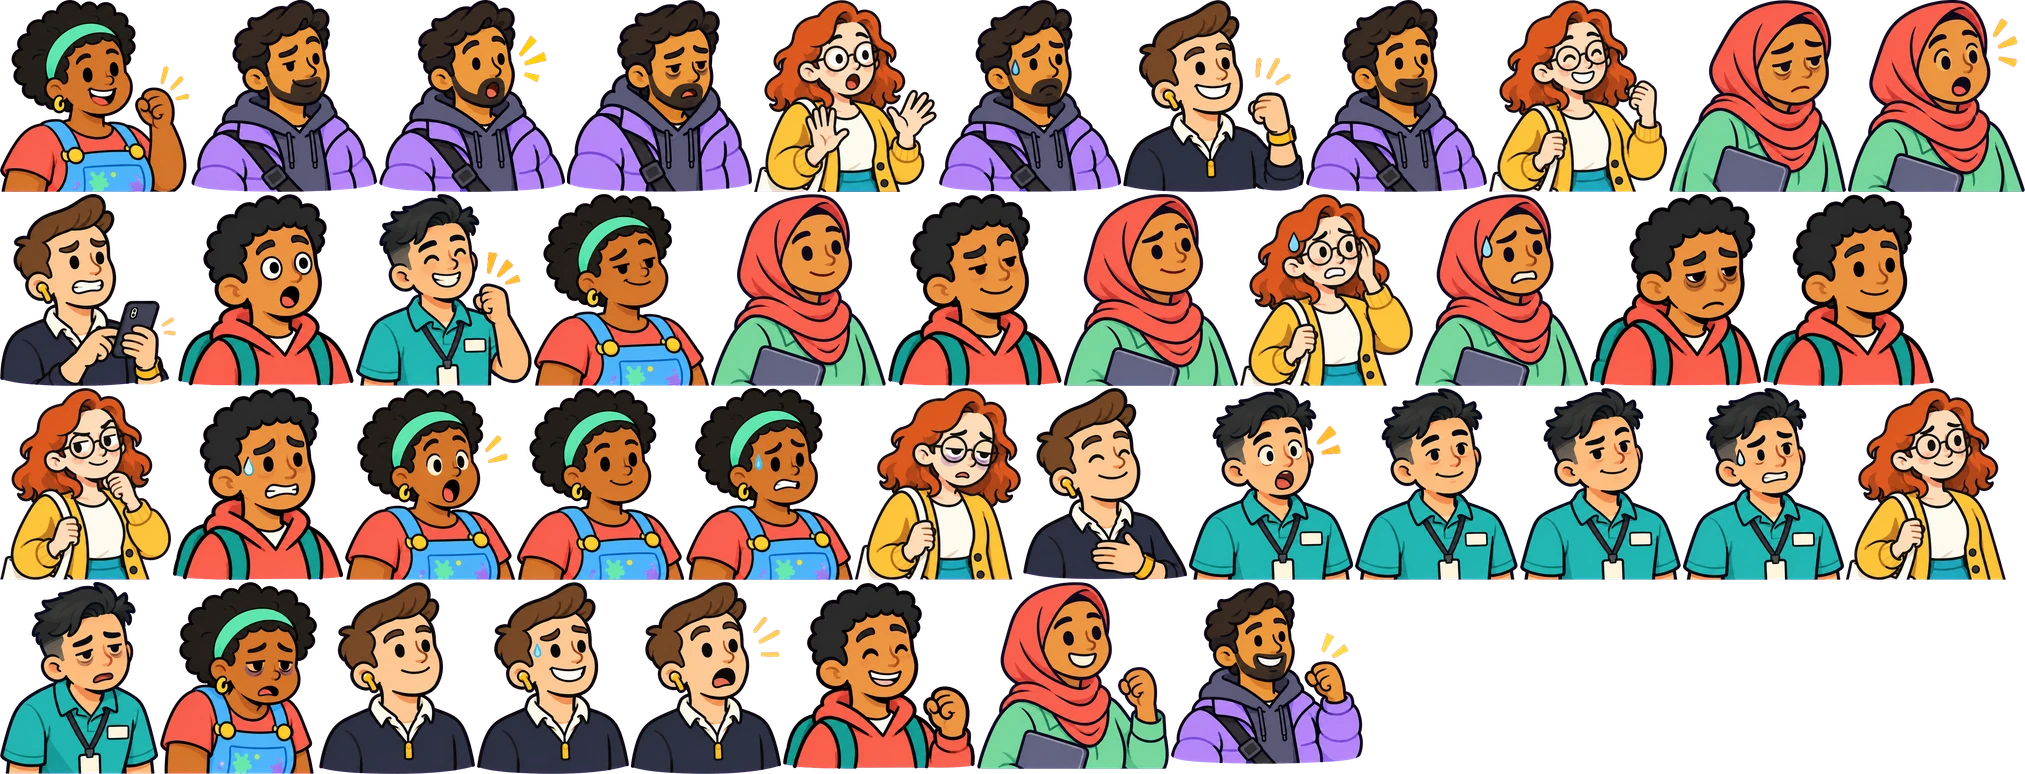
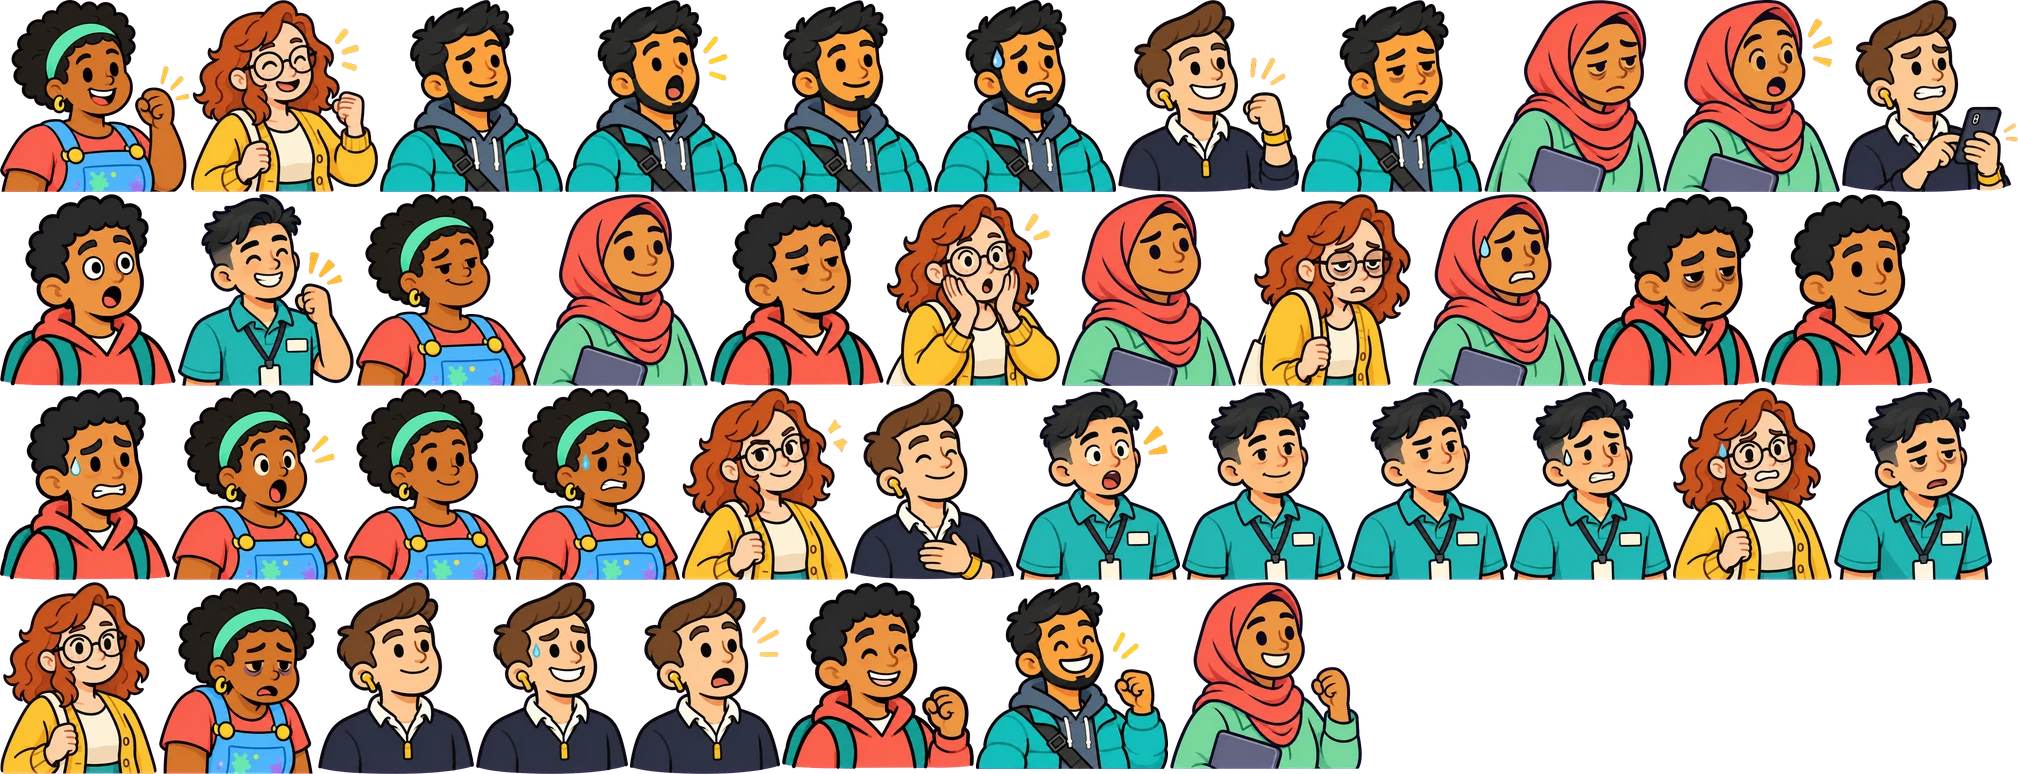
art: redo player-02 and player-05 to the art-direction rules (#8)
player-05 drops the lilac puffer and sneakers (lilac is reserved for
robots and AI) for teal and white. player-02's tote bag and tights are
now flat with a single hard-edged shadow, no soft shading. Both emotion
sheets regenerated from the new full bodies; atlases rebuilt.

Also: gen_one.sh resolves art/src relative to itself so it works from any
worktree, and make_prompts.py writes LF so a rerun on Windows only
touches prompts whose text changed.

diff --git a/art/tools/make_prompts.py b/art/tools/make_prompts.py
@@ -35,10 +35,10 @@ assets: dict[str, dict[str, tuple[str, str]]] = {"characters": {}, "locations": 
 
 PLAYERS = {
     "player-01": "a young adult around 24, medium-brown skin, short curly black hair, wearing a coral hoodie, slate jeans, white sneakers and a teal backpack. Personality: hopeful, slightly tired",
-    "player-02": "a young woman around 26, light skin with freckles, shoulder-length wavy red hair, round glasses, wearing a mustard cardigan over a cream top, teal skirt, dark tights and ankle boots, tote bag. Personality: bookish, anxious overachiever",
+    "player-02": "a young woman around 26, light skin with freckles, shoulder-length wavy red hair, round glasses, wearing a mustard cardigan over a cream top, teal skirt, slate tights and ankle boots, cream tote bag. The tote bag and tights are flat colour with one hard-edged shadow tone each, no soft shading. Personality: bookish, anxious overachiever",
     "player-03": "a young man around 25, East Asian, black undercut hair, wearing a teal work polo with a blank name badge, slate chinos, black work shoes, lanyard. Personality: earnest, grinding through shifts",
     "player-04": "a young woman around 23, deep dark-brown skin, short natural afro with a mint headband, plus-size, wearing sky-blue denim overalls over a coral t-shirt, chunky sneakers, paint-splattered. Personality: creative, upbeat hustler",
-    "player-05": "a young man around 27, tan South Asian skin, neat beard, wearing a lilac puffer jacket over a slate hoodie, black joggers, sneakers, delivery bag strap across chest. Personality: easy-going gig worker",
+    "player-05": "a young man around 27, tan South Asian skin, neat beard, wearing a teal puffer jacket over a slate hoodie, black joggers, white sneakers, delivery bag strap across chest. No lilac anywhere on him (lilac is reserved for robots). Personality: easy-going gig worker",
     "player-06": "a young woman around 24, warm olive-brown skin, wearing a coral headscarf (hijab), a long mint shirt over slate trousers, white sneakers, laptop under one arm. Personality: focused, quietly ambitious",
 }
 for pid, desc in PLAYERS.items():
@@ -144,8 +144,8 @@ for cat, items in assets.items():
     d = ROOT / cat
     d.mkdir(parents=True, exist_ok=True)
     for aid, (canvas, body) in items.items():
-        (d / f"{aid}.prompt.txt").write_text(f"{STYLE}\n\n{body}\n", encoding="utf-8")
+        (d / f"{aid}.prompt.txt").write_text(f"{STYLE}\n\n{body}\n", encoding="utf-8", newline="\n")
         manifest.append(f"{cat}\t{aid}\t{canvas}")
         n += 1
-(ROOT.parent / "manifest.tsv").write_text("\n".join(manifest) + "\n")
+(ROOT.parent / "manifest.tsv").write_text("\n".join(manifest) + "\n", newline="\n")
 print(n, "prompts written")
